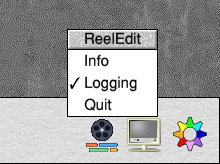
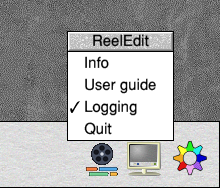
!ReelEdit 0.3-test32: the User Guide opened from the app
- src/riscos/guide.c (new): gd_open runs !ReelEdit.Guide.index/html
  (its canonical name) with Filer_Run, so it opens in whatever opens HTML
  here. With no HTML handler, or a text editor as it (Edit, StrongED,
  Zap), it says to run NetSurf once instead of showing the page as text.
- The icon bar menu: Info, User guide, Logging, Quit. The main menu:
  User guide (F1) after Video information. F1 in the editor.
- editor_test: User guide from the icon bar menu (refused with Edit as
  HTML's handler; then run), and F1. 4 mutations, all caught.
- Guide: opening it from the app (Introduction, Ch 2, Ch 3, Ch 19, the
  Appendix); the main-menu and iconbar-menu pictures retaken on RISC OS.
  !Help and DESIGN.md updated.

diff --git a/docs/guide/index.html b/docs/guide/index.html
@@ -81,7 +81,7 @@ a { color:#1f5fa8; }
 <p>If you have some video you'd like to tidy up (clips from a phone, the school play, something for the club's website), ReelEdit lets you do it on RISC OS. You can cut out the dull bits, put clips in order, add music and titles, and save the result as an MP4 that plays anywhere.</p>
 
 <h4>About this guide</h4>
-<p>The guide is supplied with ReelEdit as <code>!ReelEdit.Guide.index/html</code>. To read it, Shift-double-click <b>!ReelEdit</b> to open the application directory, open <b>Guide</b> and double-click <b>index/html</b>. It opens in NetSurf.</p>
+<p>The guide comes with ReelEdit, and you can open it from the program: press <kbd>F1</kbd> in the editor, or choose <b>User guide</b> from the icon bar menu or the main menu. It opens in your web browser (NetSurf, for example). The file itself is <code>!ReelEdit.Guide.index/html</code>, if you'd rather open it yourself.</p>
 <p>You don't need to read it in order. If all you want is a title, go to <a href="#ch12">Chapter 12</a>. If you're new to video editing, start at <a href="#part1">Part I</a> and do the <b>Try it</b> examples as you go. By the end of <a href="#part2">Part II</a> you'll have made your first edit.</p>
 <p>The pictures are screenshots of ReelEdit running on RISC OS. The test clips are colour bars with a moving line across them, which makes it easy to see which frame you're on.</p>
 
@@ -149,6 +149,7 @@ a { color:#1f5fa8; }
 <figure><img src="images/iconbar-menu.png" alt="The icon bar menu, with Logging ticked"><figcaption>The icon bar menu, with logging turned on.</figcaption></figure>
 <ul>
 <li><b>Info</b> tells you which version you have.</li>
+<li><b>User guide</b> opens this guide in your web browser.</li>
 <li><b>Logging</b> turns the log on or off. A tick means it's on. ReelEdit remembers your choice the next time it starts.</li>
 <li><b>Quit</b> quits ReelEdit. If you have unsaved changes, it asks first.</li>
 </ul>
@@ -195,7 +196,7 @@ a { color:#1f5fa8; }
 
 <h4>The menus</h4>
 <p>Press Menu over the Viewer or the ruler for the main menu. Press Menu over a clip, an overlay or a sound for a menu about that one item.</p>
-<figure><img src="images/main-menu.png" alt="The main menu"><figcaption>The main menu.</figcaption></figure>
+<figure><img src="images/main-menu.png" alt="The main menu"><figcaption>The main menu. <b>User guide</b> at the bottom opens this guide, as does <kbd>F1</kbd>.</figcaption></figure>
 <figure><img src="images/edit-menu.png" alt="The Edit menu"><figcaption>The Edit menu, with each command's key on the right. Commands you can't use at the moment are greyed out.</figcaption></figure>
 
 <div class="box tip"><b class="label">TIP</b>Every command has a key, shown beside it in the menu. Learning a few of them (<a href="#ch18">Chapter 18</a> has a list) will save you a lot of trips to the menus.</div>
@@ -542,9 +543,9 @@ That's your first edit. Your screen should look like the picture in <a href="#ch
 <tr><td>Pressing E did nothing</td><td>The clips either side of the cut have no spare frames to roll into. Trim one of them first (<a href="#ch6">Chapter 6</a>).</td></tr>
 <tr><td>"Its speed can't be changed"</td><td>Pictures have no speed, and you can't change the speed of a clip with a dissolve at either end. Delete the dissolve first.</td></tr>
 <tr><td>"There's no room to paste it there" (or no room for a title)</td><td>V2, the titles row and the audio tracks each need an empty stretch at the playhead, inside the project. Move the playhead, or make some room. (A title doesn't need V2 to be empty.)</td></tr>
+<tr><td>The User guide opens as a page of text, or not at all</td><td>Your computer hasn't been told to open HTML files in a web browser yet. Double-click NetSurf (it's in <code>Apps</code>) once, then try again. If HTML files open in Edit, ReelEdit tells you rather than showing the guide as text.</td></tr>
 <tr><td>Exporting is slow</td><td>Tick <b>VideoCore encoder</b> (on a Pi with the VCHIQ module), or choose a smaller size.</td></tr>
-<tr><td>ReelEdit crashed</td><td>Open it again and choose <b>Recover</b>. If you can make it happen again, turn on logging (<a href="#ch2">Chapter 2</a>), repeat what you did, and send the log to the author.</td></tr>
-<tr><td>Something odd happened and you want to know why</td><td>Turn on logging from the icon bar menu, do it again, then look at <code>&lt;Wimp$ScrapDir&gt;.ReelEditLog</code>. It records what ReelEdit has been doing.</td></tr>
+<tr><td>ReelEdit crashed, or did something odd</td><td>After a crash, open ReelEdit again and choose <b>Recover</b>. To find out what went wrong, turn on logging from the icon bar menu (<a href="#ch2">Chapter 2</a>), do the same thing again, then look at <code>&lt;Wimp$ScrapDir&gt;.ReelEditLog</code>. Please send it to the author with your report.</td></tr>
 </table>
 
 <h3 class="chapter" id="ch20"><span>20</span> Ten things for experienced users</h3>
@@ -604,6 +605,7 @@ That's your first edit. Your screen should look like the picture in <a href="#ch
 <tr><td><kbd>Ctrl-R</kbd></td><td>Render previews</td></tr>
 <tr><td><kbd>Ctrl-E</kbd></td><td>Export</td></tr>
 <tr><td><kbd>F3</kbd></td><td>Save</td></tr>
+<tr><td><kbd>F1</kbd></td><td>Open this guide</td></tr>
 </table>
 <h4>The mouse on the Timeline</h4>
 <table>

diff --git a/tests/host/editor_test.c b/tests/host/editor_test.c
@@ -145,7 +145,7 @@ static int polls, idle_polls, null_events, last_mask;
 static int covered, shift_key, ctrl_key;
 static char help_text[256], drag_name0[64];
 static int whole_redraws;
-static int starts, morites, exports_typed, mark2_reports;
+static int starts, guide_starts, morites, exports_typed, mark2_reports;
 static char saved_layout[256], saved_title[300];
 static char start_cmd[1500];
 static int plots, reports, questions, answer = 3, closedown, acks, menus, savebox_opens, drags;
@@ -376,7 +376,10 @@ _kernel_oserror *_kernel_swi(int no, _kernel_swi_regs *in, _kernel_swi_regs *out
     case 0x400C2: r->r[0] = BAR_ICON; break;
     case 0x400E9: break; /* Wimp_SpriteOp 24: the sprite is there */
     case 0x400DE: /* StartTask: an export's TaskWindow (the script plays its part) */
-        starts++;
+        if (!strncmp((const char *) r->r[0], "Filer_Run ", 10))
+            guide_starts++; /* (the User Guide: counted apart from the TaskWindows) */
+        else
+            starts++;
         snprintf(start_cmd, sizeof(start_cmd), "%s", (const char *) r->r[0]);
         break;
     case 0x400C5: {                                                 /* OpenWindow */
@@ -730,7 +733,7 @@ static int script(int *b, int mask)
     case 3000:
         CHECK(menus == menus_mark + 1, "Menu on the icon: %d menus", menus - menus_mark);
         next(3001);
-        b[0] = 1; b[1] = -1; /* Logging */
+        b[0] = 2; b[1] = -1; /* Logging */
         return 9;
     case 3001:
         CHECK(!lg_on() && choice_is("off"), "Logging: still on (%d), or the choice not kept", lg_on());
@@ -740,7 +743,7 @@ static int script(int *b, int mask)
         return 6;
     case 3002:
         next(3003);
-        b[0] = 1; b[1] = -1; /* Logging again */
+        b[0] = 2; b[1] = -1; /* Logging again */
         return 9;
     case 3003: {
         CHECK(lg_on() && choice_is("on"), "Logging again: not on (%d), or the choice not kept", lg_on());
@@ -758,10 +761,35 @@ static int script(int *b, int mask)
             fclose(f);
         CHECK(off == 1 && on == 1 && quiet && header == 2, "the log: off %d, on %d, quiet %d, headers %d (kept, added to)",
               off, on, quiet, header);
+        /* ---- the icon bar menu's User guide: with no browser known, said so; with one, run by the Filer ---- */
+        setenv("Alias$@RunType_FAF", "Run <Edit$Dir>.!Run %*0", 1); /* (HTML opened as text: no good) */
+        mark = reports;
+        menus_mark = guide_starts;
+        next(3004);
+        b[0] = 100; b[1] = 20; b[2] = 2; b[3] = -2; b[4] = BAR_ICON;
+        return 6;
+    }
+    case 3004:
+        next(3005);
+        b[0] = 1; b[1] = -1; /* User guide */
+        return 9;
+    case 3005:
+        CHECK(reports == mark + 1 && guide_starts == menus_mark, "User guide, no browser: %d reports, %d started",
+              reports - mark, guide_starts - menus_mark);
+        setenv("Alias$@RunType_FAF", "Run <NetSurf$Dir>.!Run %*0", 1);
+        next(3006);
+        b[0] = 100; b[1] = 20; b[2] = 2; b[3] = -2; b[4] = BAR_ICON;
+        return 6;
+    case 3006:
+        next(3007);
+        b[0] = 1; b[1] = -1; /* User guide */
+        return 9;
+    case 3007:
+        CHECK(guide_starts == menus_mark + 1 && !strcmp(start_cmd, "Filer_Run <ReelEdit$Dir>.Guide.index/html"),
+              "User guide: %d started, \"%s\"", guide_starts - menus_mark, start_cmd);
         next(2);
         b[0] = 100; b[1] = 20; b[2] = 4; b[3] = -2; b[4] = BAR_ICON;
         return 6;
-    }
     case 2:
         shot("01-empty");
         CHECK(W[0].open && W[1].open, "the editor's windows aren't open (%d, %d)", W[0].open, W[1].open);
@@ -2219,9 +2247,16 @@ static int script(int *b, int mask)
         int i = re_project_overlays(re_test_project()) - 1;
         CHECK(!re_project_overlay(re_test_project(), i, &o) && !strcmp(o.name, "Bye") && i == mark && !W[4].open,
               "Edit title... changed: \"%s\", %d overlays, open %d", o.name, i + 1, W[4].open);
+        mark = guide_starts;
+        start_cmd[0] = 0;
+        next(248);
+        return key_to(b, TL, 0x181); /* F1: the User Guide */
+    }
+    case 248:
+        CHECK(guide_starts == mark + 1 && !strcmp(start_cmd, "Filer_Run <ReelEdit$Dir>.Guide.index/html"),
+              "F1: %d started, \"%s\"", guide_starts - mark, start_cmd);
         next(250);
         return key_to(b, TL, 0x18D); /* (Right: a frame on) */
-    }
     /* ---- export: Ctrl-E, Size > 720 lines, a full name, Export: the TaskWindow started with
        -export; its output (progress, done) and its end shown; again, and stopped ---- */
     case 250:

diff --git a/src/riscos/viewer.c b/src/riscos/viewer.c
@@ -1273,11 +1273,11 @@ static MENU(8) m_view = {"View", 7, 2, 7, 0, 520, 44, 0,
                           {2, -1, IT("The whole project     \x8bZ")}, {0, -1, IT("Attach the Timeline")},
                           {0, -1, IT("Snapping                   N")}, {0, 0, IT("Viewer size")},
                           {2, -1, IT("Clips...                  ^B")}, {0x80, -1, IT("Use proxies")}}};
-static MENU(5) m_main = {"ReelEdit", 7, 2, 7, 0, 340, 44, 0,
+static MENU(6) m_main = {"ReelEdit", 7, 2, 7, 0, 340, 44, 0,
                          {{0, 0, IT("File")}, {0, 0, IT("Edit")}, {0, 0, IT("Play")}, {0, 0, IT("View")},
-                          {0x80, -1, IT("Video information...")}}};
-static MENU(3) m_bar = {"ReelEdit", 7, 2, 7, 0, 200, 44, 0,
-                        {{0, -1, IT("Info")}, {0, -1, IT("Logging")}, {0x80, -1, IT("Quit")}}};
+                          {0, -1, IT("Video information...")}, {0x80, -1, IT("User guide      F1")}}};
+static MENU(4) m_bar = {"ReelEdit", 7, 2, 7, 0, 220, 44, 0,
+                        {{0, -1, IT("Info")}, {0, -1, IT("User guide")}, {0, -1, IT("Logging")}, {0x80, -1, IT("Quit")}}};
 static int menu_is; /* 0 none, 1 the icon bar's, 2 the editor's, 3 the Timeline's context menu (effects.c), 4 overlays.c's,
                        5 titles.c's, 6 exportbox.c's, 7 audiotracks.c's */
 static int menu_x, menu_y;
@@ -1440,8 +1440,10 @@ static void menu_select(int *b)
             snprintf(text, sizeof(text), APP " %s: a video editor for RISC OS, on the MLT framework.", RE_VERSION);
             app_report(text);
         } else if (b[0] == 1) {
-            lg_set(!lg_on());
+            gd_open();
         } else if (b[0] == 2) {
+            lg_set(!lg_on());
+        } else if (b[0] == 3) {
             if (close_editor())
                 V.quit = 1;
         }
@@ -1512,10 +1514,13 @@ static void menu_select(int *b)
     case 4: /* Video information */
         info_open();
         break;
+    case 5: /* User guide */
+        gd_open();
+        break;
     }
     /* Adjust: the menu stays open */
     r.r[1] = (intptr_t) p;
-    if (!ro_swi(Wimp_GetPointerInfo, &r) && (p[2] & 1) && A.proj && b[0] >= 0 && b[0] != 4 && !(b[0] == 0 && b[1] >= 0))
+    if (!ro_swi(Wimp_GetPointerInfo, &r) && (p[2] & 1) && A.proj && b[0] >= 0 && b[0] != 4 && b[0] != 5 && !(b[0] == 0 && b[1] >= 0))
         app_menu(menu_x, menu_y);
 }
 
@@ -1567,6 +1572,7 @@ int app_key(int k)
     case '+': case '=': tl_zoom(1); return 1;
     case '-': case '_': tl_zoom(0); return 1;
     case 0x1A: tl_select(-1); return 1;           /* ^Z: clear the selection */
+    case 0x181: gd_open(); return 1;              /* F1: the User Guide */
     case 0x188: undo(0); return 1;                /* F8 */
     case 0x189: undo(1); return 1;                /* F9 */
     case 0x18F: to_cut(-1); return 1;             /* Up: the cut before */
@@ -1653,10 +1659,10 @@ static void click(int *b)
         if (buttons & 2) {
             _kernel_swi_regs r;
             menu_is = 1;
-            menu_tick(&m_bar.item[1].flags, lg_on());
+            menu_tick(&m_bar.item[2].flags, lg_on());
             r.r[1] = (intptr_t) &m_bar;
             r.r[2] = b[0] - 64;
-            r.r[3] = 96 + 44 * 3;
+            r.r[3] = 96 + 44 * 4;
             ro_swi(Wimp_CreateMenu, &r);
             re_display_check_covered();
         } else {

diff --git a/src/riscos/guide.c b/src/riscos/guide.c
@@ -1,0 +1,66 @@
+/* guide.c - the User Guide (app.h): !ReelEdit.Guide.index/html, opened in
+ * whatever reads HTML on this machine (NetSurf, usually), from the icon
+ * bar menu's User guide, the main menu's User guide or F1.
+ *
+ * It's run as the Filer would run it (Filer_Run, by its filetype, HTML
+ * &FAF), so it opens in whatever opens HTML on this machine. If nothing
+ * has said it reads HTML (no Alias$@RunType_FAF), or a text editor has
+ * (Edit, StrongED, Zap: the guide would be shown as text), ReelEdit says
+ * how to get a browser to take it instead (NetSurf, once seen, does).
+ *
+ * Part of riscos-reeledit. GPL version 2 or later.
+ */
+#include "app.h"
+
+#include <ctype.h>
+#include <stdio.h>
+#include <stdlib.h>
+
+#define Wimp_StartTask 0x400DE
+#define GUIDE "<ReelEdit$Dir>.Guide.index/html"
+
+/* 1: s has t in it, whatever the case */
+static int has(const char *s, const char *t)
+{
+    for (; *s; s++) {
+        int i = 0;
+        while (t[i] && s[i] && tolower((unsigned char) s[i]) == t[i])
+            i++;
+        if (!t[i])
+            return 1;
+    }
+    return 0;
+}
+
+void gd_open(void)
+{
+    const char *run = getenv("Alias$@RunType_FAF");
+    if (!run || !*run || has(run, "edit") || has(run, "stronged") || has(run, "zap")) {
+        app_report("ReelEdit can't show its User Guide yet: no web browser has said it opens HTML files on this "
+                   "computer. Double-click NetSurf (in Apps) once, then choose User guide again; or open "
+                   "!ReelEdit.Guide.index/html in your browser.");
+        app_log("guide: no browser (HTML runs as \"%s\")", run ? run : "");
+        return;
+    }
+    /* (its full name: a browser handed "<ReelEdit$Dir>..." may not know the
+       variable; on RISC OS for Linux one showed the name as it was) */
+    char whole[600], cmd[700];
+    snprintf(whole, sizeof(whole), "%s", GUIDE);
+    _kernel_swi_regs r;
+#ifdef __riscos__
+    r.r[0] = 37; /* OS_FSControl 37: canonicalised */
+    r.r[1] = (intptr_t) GUIDE;
+    r.r[2] = (intptr_t) whole;
+    r.r[3] = 0;
+    r.r[4] = 0;
+    r.r[5] = sizeof(whole);
+    if (ro_swi(0x29, &r))
+        snprintf(whole, sizeof(whole), "%s", GUIDE);
+#endif
+    snprintf(cmd, sizeof(cmd), "Filer_Run %s", whole);
+    r.r[0] = (intptr_t) cmd;
+    _kernel_oserror *e = ro_swi(Wimp_StartTask, &r);
+    app_log("guide: %s%s (HTML runs as \"%s\")", e ? "not opened: " : "opened", e ? e->errmess : "", run);
+    if (e)
+        app_report(e->errmess);
+}

diff --git a/src/riscos/app.h b/src/riscos/app.h
@@ -57,6 +57,8 @@ void lg_start(void);
 int lg_on(void);
 void lg_set(int on);
 void lg_end(void);
+/* guide.c: the User Guide opened in a browser (or why not, reported) */
+void gd_open(void);
 void app_report(const char *text);
 /* A question: buttons (a comma list); 3 the first, 4 the second... */
 int app_ask(const char *text, const char *buttons);

diff --git a/docs/DESIGN.md b/docs/DESIGN.md
@@ -250,6 +250,7 @@ need the Wimp front end.
 | Render previews | `src/render.c`, `src/riscos/renders.c`, `re_engine_set_producer` | Costly stretches (V2 overlays, dissolves, picture fades, clips at another speed; joined within 2 s) are made into MP4 files by the export program (`-export proj file height 2 hw in out`: a cut of the project) one at a time in TaskWindows (txt &52455056), at the engine's preview height. Each stretch has a signature (FNV-1a of everything in it, placed from its start, its sounds too): a preview is found by signature and length, so a V1 stretch moved along by a ripple keeps it, a changed one loses it. While playing, the engine plays a playlist of the project with the rendered stretches from their files (switched back when stopped or edited). The bar under the ruler: red to render, green rendered, amber rendering. Files in <Wimp$ScrapDir>.ReelEdPrv, deleted when the editor closes (at most 64, least recently used go) |
 | Proxies | `src/proxy.c`, `src/riscos/proxies.c`, `re_export_proxy` | Videos taller than 540 lines or not H.264 (with a known length) get a proxy: 360 lines, a keyframe every 5 frames, H.264 (VideoCore encoder when there is one), the same frames and sound, made one at a time in TaskWindows (`-proxy file out hw`, txt &52455058). The project is made again from its XML with each file's name swapped for its proxy's (a whole property value, or after a timewarp's "2:"; full and current-directory-relative forms), when nothing plays or is dragged; undo and redo restore with the same swap; saves (and so exports, renders, autosaves) swap back, and clips, overlays, sounds and render signatures use the file's name (`re_project_original`). View > Use proxies. Files in <Wimp$ScrapDir>.ReelEdPxy with an Index (proxy, file): deleted on closing the editor and quitting; on opening the editor, a recovered project gets them back (Index), otherwise they are deleted (and render previews' ReelEdPrv too) |
 | Titles over V2 | `src/overlay.c` (the titles' track), `src/riscos/timeline.c` (its row) | Titles made here go on their own track above V2 (V3, marked `shotcut:reeledit_titles`, made with the first title; found by that mark when a project is read, and skipped when looking for V2), so a title can be over a logo or a picture in the picture. Overlays are numbered across both tracks: V2's first, then the titles' (`re_overlay.track` 2 or 3; `rp_overlay_entry`); their composites are planted in that order, so titles are composited last, on top. The Timeline shows the titles' row over V2 only while there are titles there. Older titles on V2 stay there |
+| User guide | `src/riscos/guide.c`, `docs/guide/` | The illustrated guide (one HTML page and its pictures, packaged as !ReelEdit.Guide) opened from the icon bar menu, the main menu or F1: `Filer_Run` on its canonical name, so whatever opens HTML here opens it. With no HTML handler, or a text editor as it (Edit, StrongED, Zap), a report says to run a browser once instead |
 | Logging | `src/riscos/logging.c` | `app_log` writes to <Wimp$ScrapDir>.ReelEditLog only while logging is on: off as standard, turned on and off by the icon bar menu's Logging (kept in <Choices$Write>.ReelEdit.Logging), or set at start-up by ReelEdit$Log (a file, or "off"). On: MLT's and FFmpeg's messages go to it (`re_engine_messages`); off: dropped, and both set to errors only. Again in the same run: added to |
 | Export | `src/export.c`, `src/riscos/exportbox.c` | The project made into an MP4 (H.264 and AAC): File > Export... (Ctrl-E). The project is saved to a scrap copy and !RunImage run again with -export in a TaskWindow (pre-emptive, so editing goes on); its "progress"/"done"/"failed" lines come back as TaskWindow_Output, its end as Morio; Stop sends Morite and deletes the part made. MLT's avformat consumer (no threads: on the calling thread) at the project's size or fewer lines; the VideoCore's h264_encvchiq when VCHIQ is there (bit rate from size and quality), else libx264 (veryfast, CRF), else mpeg4; a file without video tries the next codec. The file icon drags as the Save as box's (savebox.c's sb_drag_file) |
 | Titles | `src/title.c`, `src/riscos/titles.c`, `src/riscos/fonts.c` | Text over the video: a picture made from the text (each line by the Font Manager into a 32bpp sprite, its brightness the coverage; blocks on Linux), coloured over a shadow, an outline or a box; an MLT producer registered as "qtext" (Shotcut's text producer's name and properties), a still made again when its properties change (still.c's re_still_made). Put on V2 as an overlay at its own size (overlay.c's title_box), lower third by default. The Title window: two lines, Font, Size, Colour, Style, Lines, Place; Edit > New title... (T), the overlay menu's Edit title... |
